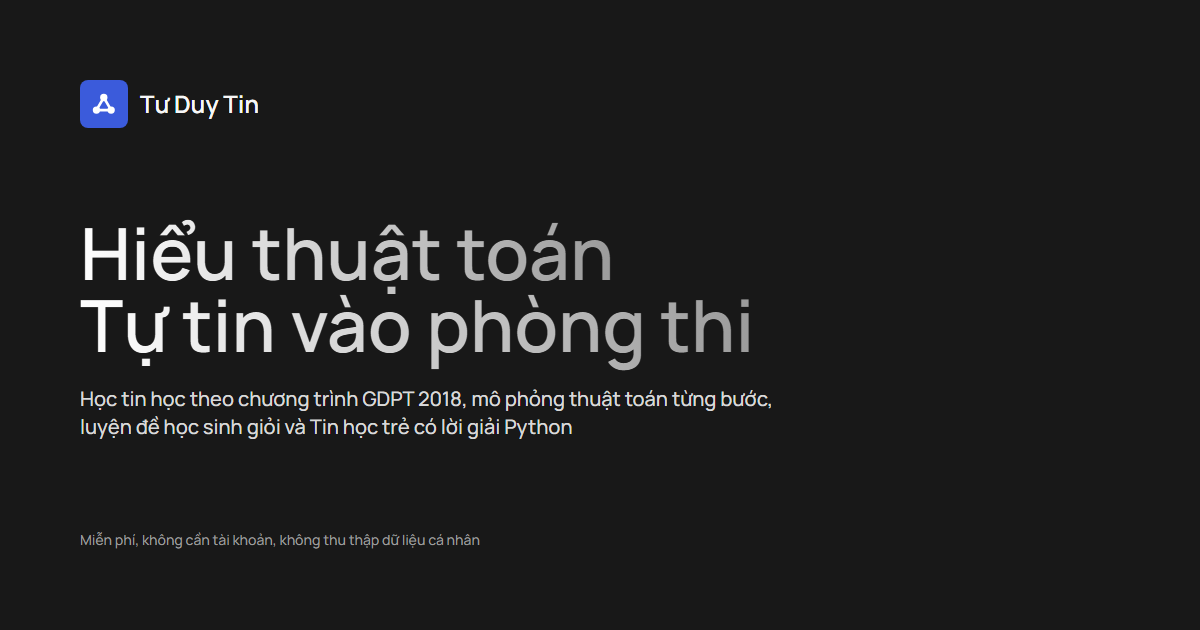
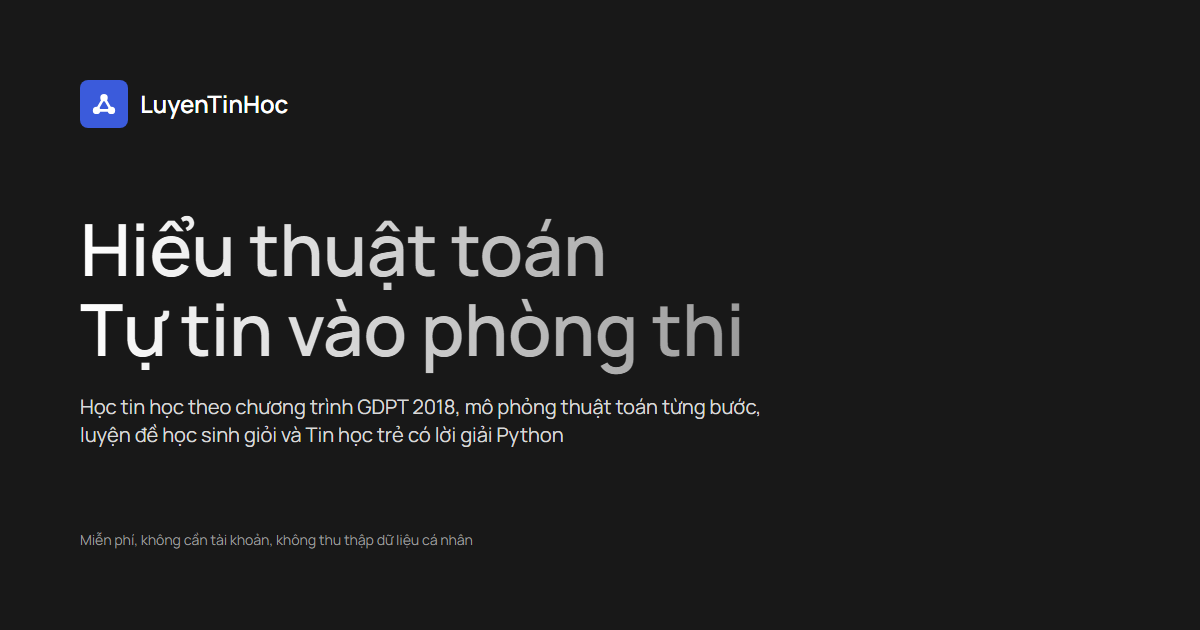
Đổi tên hiển thị web thành LuyenTinHoc
Thay tên trên mọi trang, thông báo, tiêu đề, ảnh chia sẻ og-default.png và tên file xuất tiến độ. Thông báo khi repo thiếu scripts/ nói rõ nguyên nhân và cách đẩy lại.

Changed region(s): [[0.0617, 0.3317, 0.6475, 0.7238], [0.0617, 0.8444, 0.4008, 0.8746], [0.0925, 0.1508, 0.2467, 0.181]]

diff --git a/src/lib/progress.ts b/src/lib/progress.ts
@@ -215,15 +215,15 @@ export function exportProgress(): string {
 /** Nhập tiến độ từ chuỗi JSON. Trả về thông báo lỗi tiếng Việt, hoặc null nếu thành công. */
 export function importProgress(text: string): string | null {
   if (text.length > IMPORT_LIMIT)
-    return 'File quá lớn (giới hạn 1 MB). Hãy chọn đúng file tiến độ đã xuất từ Tư Duy Tin.';
+    return 'File quá lớn (giới hạn 1 MB). Hãy chọn đúng file tiến độ đã xuất từ LuyenTinHoc.';
   let raw: unknown;
   try {
     raw = JSON.parse(text);
   } catch {
-    return 'File không phải JSON hợp lệ. Hãy chọn đúng file tiến độ đã xuất từ Tư Duy Tin.';
+    return 'File không phải JSON hợp lệ. Hãy chọn đúng file tiến độ đã xuất từ LuyenTinHoc.';
   }
   const clean = sanitize(raw);
-  if (!clean) return 'File không đúng định dạng tiến độ của Tư Duy Tin (thiếu trường v: 1).';
+  if (!clean) return 'File không đúng định dạng tiến độ của LuyenTinHoc (thiếu trường v: 1).';
   save(clean);
   return null;
 }

diff --git a/src/site.config.ts b/src/site.config.ts
@@ -3,7 +3,7 @@
  * Giá trị dạng {{...}} là chỗ trống chưa điền: hiển thị nguyên dạng cho tới khi người sở hữu điền.
  */
 export const SITE = {
-  name: 'Tư Duy Tin',
+  name: 'LuyenTinHoc',
   slug: 'luyentinhoc',
   url: 'https://luyentinhoc.vercel.app',
   description:

diff --git a/CONTENT_LICENSE.md b/CONTENT_LICENSE.md
@@ -1,6 +1,6 @@
 # Giấy phép nội dung
 
-Bài học, lời giải, giả mã, cẩm nang và câu đố do Tư Duy Tin biên soạn được phát hành theo giấy phép [Creative Commons Ghi công, Phi thương mại, Chia sẻ tương tự 4.0 Quốc tế (CC BY-NC-SA 4.0)](https://creativecommons.org/licenses/by-nc-sa/4.0/deed.vi). Tác giả: Nguyễn An Thu Uyên.
+Bài học, lời giải, giả mã, cẩm nang và câu đố do LuyenTinHoc biên soạn được phát hành theo giấy phép [Creative Commons Ghi công, Phi thương mại, Chia sẻ tương tự 4.0 Quốc tế (CC BY-NC-SA 4.0)](https://creativecommons.org/licenses/by-nc-sa/4.0/deed.vi). Tác giả: Nguyễn An Thu Uyên.
 
 Đề chính thức của các kỳ thi thuộc quyền tác giả của đơn vị ra đề. Website chỉ đăng khi có nguồn rõ ràng và ghi đầy đủ nguồn trên từng bài.
 

diff --git a/docs/PROGRESS.md b/docs/PROGRESS.md
@@ -103,6 +103,10 @@
 - Đã điền: người biên soạn, email, giấy phép nội dung (CC BY-NC-SA 4.0).
 - Tên miền (mặc định `luyentinhoc.vercel.app`, repo và project Vercel tên `LuyenTinHoc`) nếu Vercel cấp địa chỉ khác
 
+## Đổi tên
+
+- Tên hiển thị, repo và project Vercel: LuyenTinHoc (trước đây Tư Duy Tin). Ảnh chia sẻ `public/og-default.png` đã vẽ lại với tên mới. Khóa localStorage giữ tiền tố `tdt:v1:` để không mất tiến độ.
+
 ## Chưa kiểm chứng
 
 - Header bảo mật trên Vercel thật (chỉ kiểm chứng được sau khi deploy: `curl -I`). Đã kiểm bằng `scripts/serve-dist.mjs` dùng đúng `vercel.json`.

diff --git a/CLAUDE.md b/CLAUDE.md
@@ -1,4 +1,4 @@
-# CLAUDE.md: quy tắc dự án Tư Duy Tin
+# CLAUDE.md: quy tắc dự án LuyenTinHoc
 
 Đầu mỗi phiên: đọc file này, rồi `docs/PROGRESS.md` (đang ở giai đoạn nào, còn gì chưa làm), rồi phần liên quan trong `docs/SUPER_PROMPT.md` (đặc tả đầy đủ). Cuối mỗi giai đoạn: cập nhật `docs/PROGRESS.md` và báo cáo theo mẫu ở mục 7.2 của SUPER_PROMPT.
 
